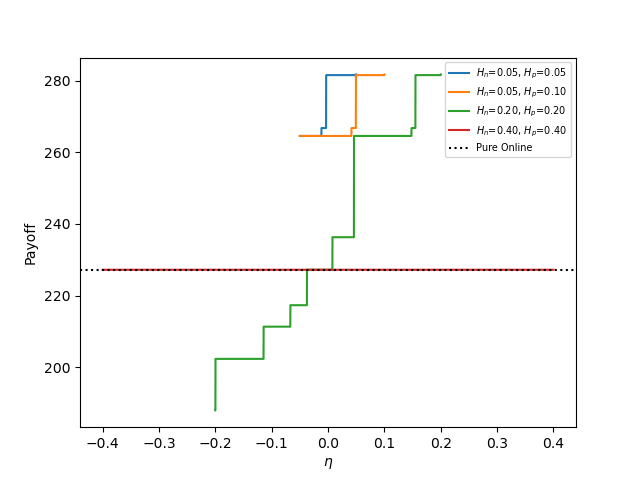
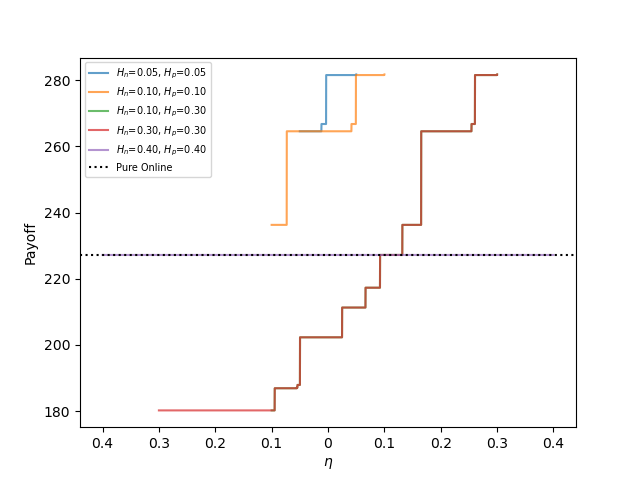
take average of different data sample

diff --git a/query_s1.py b/query_s1.py
@@ -21,6 +21,20 @@ def get_maxmin(file_name, starting_day, period):
     return max(raw_data), min(raw_data)
 
 
+def get_size_data(file_name):
+    file = pd.read_csv(file_name, header=None, sep="\t", usecols=[4])
+    raw_data = []
+    for i in file.values.tolist():
+        raw_data.append(i[0])
+    return len(raw_data)
+
+
+def generate_random_data(file_name, period, number_of_data):
+    data_size = get_size_data(file_name)
+    random_list = random.sample(range(0, data_size - period), number_of_data)
+    return random_list
+
+
 def online(data, M, m):
     reservation_price = sqrt(M * m)
     trade_price = first_greater_element(data, reservation_price)
@@ -55,7 +69,7 @@ def generate_query(k, M, m, v_star):
 def generate_wrong_query(query, H, eta):
     k = len(query)
     p = ceil(k * H)
-    wrong_number = ceil(k*eta)
+    wrong_number = ceil(k * eta)
     wrong_position_list = random.sample(range(0, k), wrong_number)  # random from 0 to 99
     for i in wrong_position_list:
         if query[i] == 0:
@@ -137,92 +151,127 @@ def check_query_all_no(query):
     count = 0
     for i in range(len(query)):
         if query[i] == 1:
-            count = count+1
-    if count==0:
+            count = count + 1
+    if count == 0:
         query[-1] = 1
         return True
     else:
         return False
 
 
-def main():
-    starting_day = 580
-    whole_period = 300
-    trading_period = 200
-    data = load_data_set("data\ETHUSD.csv",starting_day, trading_period)
-    M, m = get_maxmin("data\ETHUSD.csv",starting_day, whole_period)
-    pure_online = online(data,M,m)
-    v_star = max(data)
-    k = 100
-    r = (M / m) ** (1 / k)
-    #H_list = np.linspace(0,1,20)
-    H_list = [0.05, 0.20, 0.35, 0.50]
-    #H_list = [0.6]
+def plot(result_list, eta_list_all, H_list, average_pure_online, average_best_price):
     fig, ax = plt.subplots()
-    for H in H_list:
-        buffer = 200
-        eta_list = np.linspace(0, H, int(H*buffer))
-        #eta_list = [0.02]
-        average_coefficient = 500
-        price_list = list()
-        for eta in eta_list:
-            average_trading_price = 0
-            for l in range(average_coefficient):
-                query = generate_query(k, M, m, v_star)
-                if check_query_all_no(query):
-                    query[-1] = 1
-                #print(query)
-                wrong_query = generate_wrong_query(query, H, eta)
-                corrected_query = correct_wrong_answer(wrong_query, H)
-                #corrected_query=generate_wrong_query(query, H, eta)
-                if check_query_all_no(corrected_query):
-                    m_prime = m
-                    M_prime = M
-                else:
-                    i = find_first_yes(corrected_query)
-                    j = find_last_no(corrected_query)
-                    if i > j:
-                        i_prime = j
-                        j_prime = i
-                    else:
-                        alpha = count_alpha(corrected_query, i, j)
-                        p = ceil(k * H)
-                        i_prime = i - p + alpha
-                        j_prime = p + i + alpha - 1
-                        '''
-                        if i_prime < 0 or j_prime > k:
-                            i_prime = 0
-                            j_prime = k
-                        '''
-                        if i_prime < 0:
-                            i_prime = 0
-                        if j_prime > k:
-                            j_prime = k
-
-                    m_prime = m * (r ** i_prime)
-                    M_prime = m * (r ** j_prime)
-                trading_price = online(data, M_prime, m_prime)
-                average_trading_price = average_trading_price + trading_price
-            average_trading_price = average_trading_price/average_coefficient
-            price_list.append(average_trading_price)
-        #draw
-        ax.plot(eta_list, price_list, label="H = %0.2f" % H)
-    ax.axhline(pure_online, color='black', ls='dotted', label='Pure Online')
-    ax.axhline(v_star, color='red', ls='dotted', label='Best Price')
-    ax.set_xlim([0, H])
-    ax.set_xlabel("$\eta$")
-    ax.set_ylabel("Average Payoff")
-    #ax.set_title("H = %0.1f" % H)
-    ax.set_title("Query Model Solution 1")
-    ax.legend(prop={'size': 7})
+    for i in range(len(result_list)):
+        ax.plot(eta_list_all[i], result_list[i], label='H=%0.2f' % H_list[i])
+    ax.axhline(average_pure_online, color='black', ls='dotted', label='Pure Online')
+    ax.axhline(average_best_price, color='red', ls='dotted', label='Best Price')
+    plt.legend()
     #fig.savefig("query_solution1_fig/" + "solution1.png")
-    #fig.savefig("query_solution1_fig/" + "H = %0.1f.png" % H)
-
     plt.show()
 
-    #plt.plot(data)
-    #plt.show()
 
+def main():
+    fileName = "data\ETHUSD.csv"
+    # starting_day = 580
+    whole_period = 200
+    trading_period = 100
+    quantity_of_data = 20
+    k = 80
+    eta_coefficient = 1000
+    average_coefficient = 30
+
+    random_list = generate_random_data(fileName, whole_period, quantity_of_data)
+    H_list = [0.1, 0.2, 0.3,0.4,0.5]
+    result_list = list()
+    average_pure_online = 0
+    average_best_price = 0
+    for starting_day in random_list:
+        data = load_data_set(fileName, starting_day, trading_period)
+        M, m = get_maxmin(fileName, starting_day, whole_period)
+        pure_online = online(data, M, m)
+        v_star = max(data)
+        r = (M / m) ** (1 / k)
+        average_pure_online += pure_online
+        average_best_price += v_star
+
+        sample_result = list()
+        eta_list_all = list()
+        for H in H_list:
+            eta_list = np.linspace(0, H, int(H * eta_coefficient))
+            price_list = list()
+            for eta in eta_list:
+
+                average_trading_price = 0
+                for l in range(average_coefficient):
+                    query = generate_query(k, M, m, v_star)
+                    if check_query_all_no(query):
+                        query[-1] = 1
+                    wrong_query = generate_wrong_query(query, H, eta)
+                    corrected_query = correct_wrong_answer(wrong_query, H)
+                    if check_query_all_no(corrected_query):
+                        m_prime = m
+                        M_prime = M
+                    else:
+                        i = find_first_yes(corrected_query)
+                        j = find_last_no(corrected_query)
+                        if i > j:
+                            i_prime = j
+                            j_prime = i
+                        else:
+                            alpha = count_alpha(corrected_query, i, j)
+                            p = ceil(k * H)
+                            i_prime = i - p + alpha
+                            j_prime = p + i + alpha - 1
+                            '''
+                            if i_prime < 0 or j_prime > k:
+                                i_prime = 0
+                                j_prime = k
+                            '''
+                            if i_prime < 0:
+                                i_prime = 0
+                            if j_prime > k:
+                                j_prime = k
+
+                        m_prime = m * (r ** i_prime)
+                        M_prime = m * (r ** j_prime)
+                    trading_price = online(data, M_prime, m_prime)
+                    average_trading_price = average_trading_price + trading_price
+                average_trading_price = average_trading_price / average_coefficient
+                price_list.append(average_trading_price)
+                price_array = np.array(price_list)
+
+            eta_list_all.append(eta_list)
+            sample_result.append(price_array)
+            sample_array = np.array(sample_result)
+
+        result_list.append(sample_array)
+        result_array = np.array(result_list)
+
+    result = list(result_array.mean(axis=0))
+    average_pure_online = average_pure_online / quantity_of_data
+    average_best_price = average_best_price / quantity_of_data
+
+    # draw
+    plot(result, eta_list_all, H_list, average_pure_online, average_best_price)
+
+    print("1")
+
+
+'''
+        ax.axhline(pure_online, color='black', ls='dotted', label='Pure Online')
+        ax.axhline(v_star, color='red', ls='dotted', label='Best Price')
+        ax.set_xlim([0, H])
+        ax.set_xlabel("$\eta$")
+        ax.set_ylabel("Average Payoff")
+        ax.set_title("Query Model Solution 1")
+        ax.legend(prop={'size': 7})
+        fig.savefig("query_solution1_fig/" + "solution1.png")
+
+        plt.show()
+
+        #plt.plot(data)
+        #plt.show()
+'''
 
 if __name__ == '__main__':
     main()

diff --git a/onlinesearch.py b/onlinesearch.py
@@ -73,7 +73,7 @@ def main():
     starting_day = 580
     whole_period = 300
     trading_period = 200
-    coefficient = 100000
+    eta_coefficient = 100000
     data = load_data_set("data\ETHUSD.csv", starting_day, trading_period)
     M, m = get_maxmin("data\ETHUSD.csv", starting_day, whole_period)
     v_star = max(data)
@@ -90,8 +90,8 @@ def main():
     Hp_bound = (M - m) / M
     fig, ax = plt.subplots()
     for r in r_list:
-        eta_list_n = np.linspace(0, Hn_bound, int(Hn_bound * coefficient)).tolist()
-        eta_list_p = np.linspace(0, Hp_bound, int(Hn_bound * coefficient)).tolist()
+        eta_list_n = np.linspace(0, Hn_bound, int(Hn_bound * eta_coefficient)).tolist()
+        eta_list_p = np.linspace(0, Hp_bound, int(Hn_bound * eta_coefficient)).tolist()
         payoff_list_n = list()
         payoff_list_p = list()
 
@@ -108,7 +108,8 @@ def main():
         ax.plot(eta_list, payoff_list, label='r=%0.2f' % r)
 
     ax.axhline(online, color='black', ls='dotted', label='Pure Online')
-    # plt.xticks([-2.5, -2.0, -1.5, -1.0, -0.5, 0.0, 0.5], ['2.5', '2.0', '1.5', '1.0', '0.5', '0.0', '0.5'])
+    # ax.set_xlim([-Hn_bound, Hp_bound])
+    plt.xticks([-3.5,-3, -2.5, -2.0, -1.5, -1.0, -0.5, 0.0, 0.5], ['3.5', '3.0', '2.5', '2.0', '1.5', '1.0', '0.5', '0','0.5'])
     ax.set_xlabel("$\eta$")
     ax.set_ylabel("Payoff")
     ax.legend(prop={'size': 7})
@@ -116,12 +117,12 @@ def main():
     plt.show()
 
     # H aware
-    Hn_Hp_list = [(0.05, 0.05), (0.05, 0.1), (0.2, 0.2), (0.4, 0.4)]
+    Hn_Hp_list = [(0.05, 0.05), (0.1,0.1), (0.1, 0.3), (0.3, 0.3), (0.4, 0.4)]
     fig, ax = plt.subplots()
 
     for hn_hp in Hn_Hp_list:
-        eta_list_n = np.linspace(0, hn_hp[0], int(hn_hp[0]*coefficient)).tolist()
-        eta_list_p = np.linspace(0, hn_hp[1], int(hn_hp[1]*coefficient)).tolist()
+        eta_list_n = np.linspace(0, hn_hp[0], int(hn_hp[0]*eta_coefficient)).tolist()
+        eta_list_p = np.linspace(0, hn_hp[1], int(hn_hp[1]*eta_coefficient)).tolist()
         payoff_list_n = list()
         payoff_list_p = list()
 
@@ -136,9 +137,10 @@ def main():
         eta_list_n = [-x for x in eta_list_n]
         eta_list = eta_list_n[::-1] + eta_list_p
 
-        ax.plot(eta_list, payoff_list, label='$H_n$=%0.2f, $H_p$=%0.2f' % (hn_hp[0], hn_hp[1]))
+        ax.plot(eta_list, payoff_list, label='$H_n$=%0.2f, $H_p$=%0.2f' % (hn_hp[0], hn_hp[1]),alpha = 0.7)
     ax.axhline(online, color='black', ls='dotted', label='Pure Online')
-    # plt.xticks([-0.3, -0.2, -0.1, 0.0, 0.1, 0.2, 0.3], ['0.3', '0.2', '0.1', '0.0', '0.1', '0.2', '0.3'])
+    #ax.set_xlim([-Hn_bound, Hp_bound])
+    plt.xticks([-0.4, -0.3, -0.2, -0.1, 0, 0.1, 0.2, 0.3, 0.4], ['0.4', '0.3', '0.2', '0.1', '0', '0.1', '0.2', '0.3', '0.4'])
     ax.set_xlabel("$\eta$")
     ax.set_ylabel("Payoff")
 
